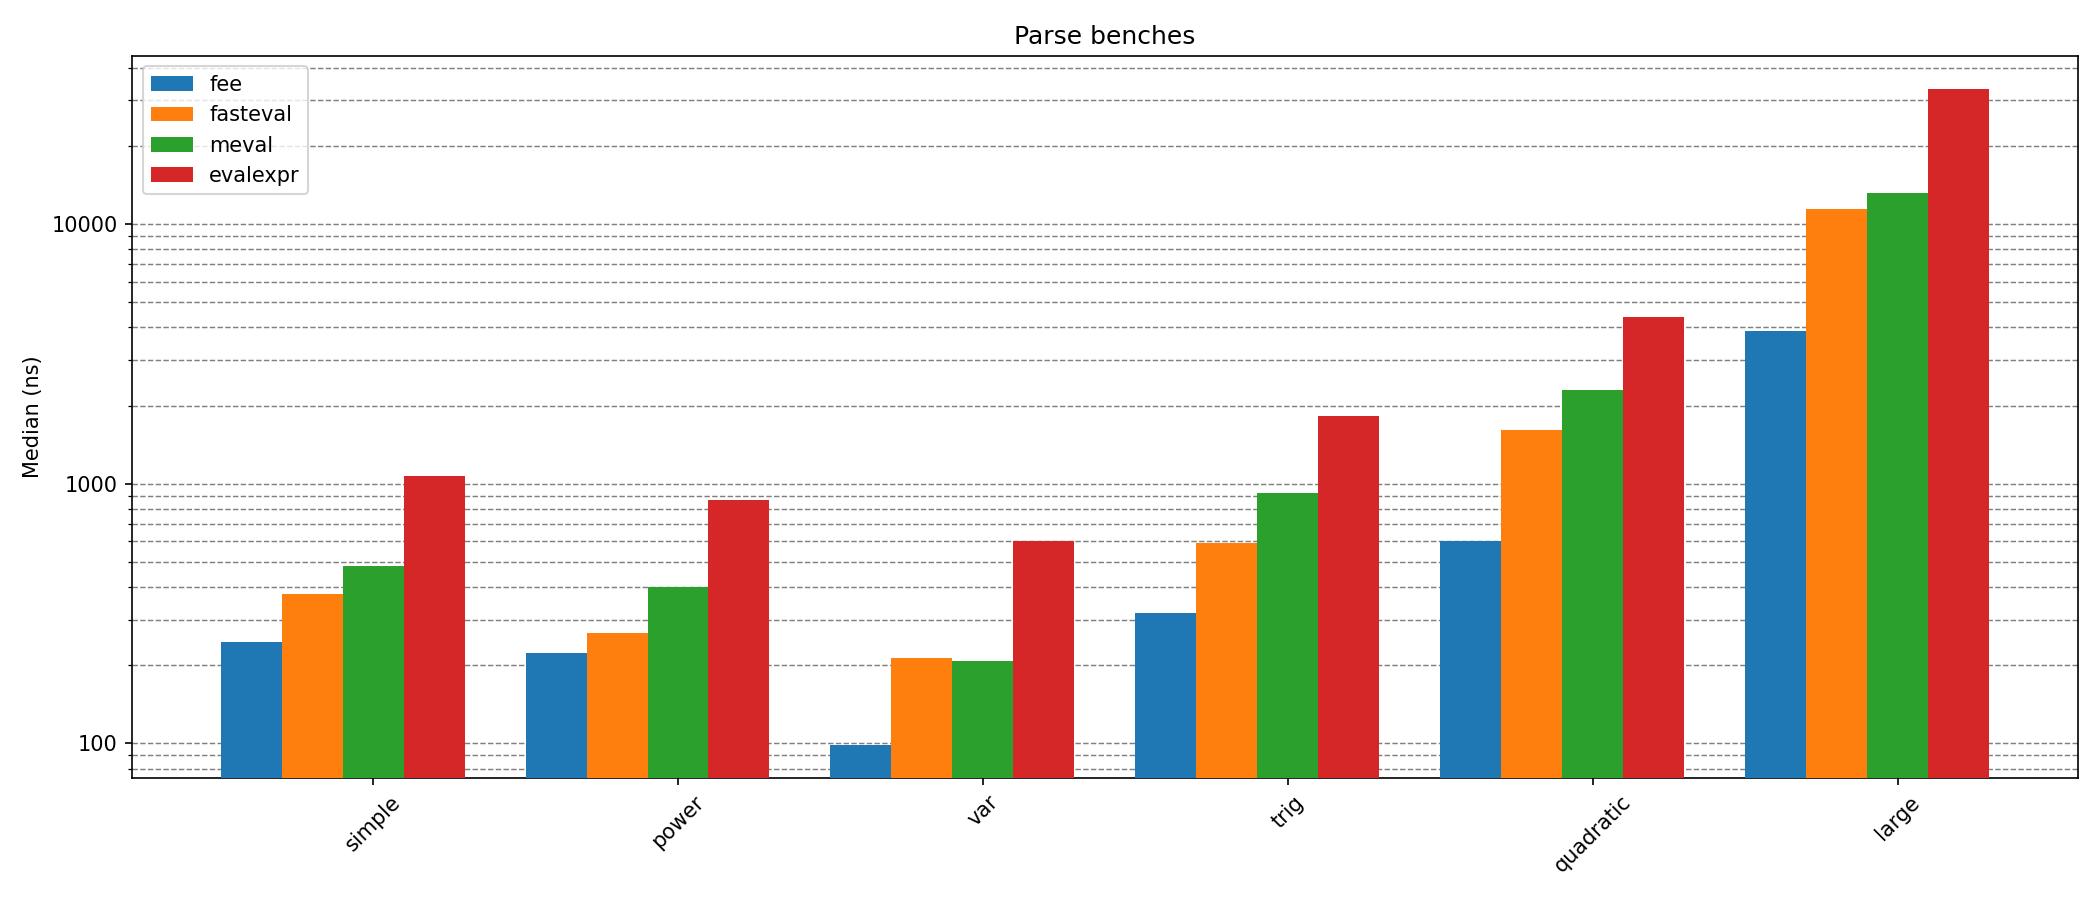
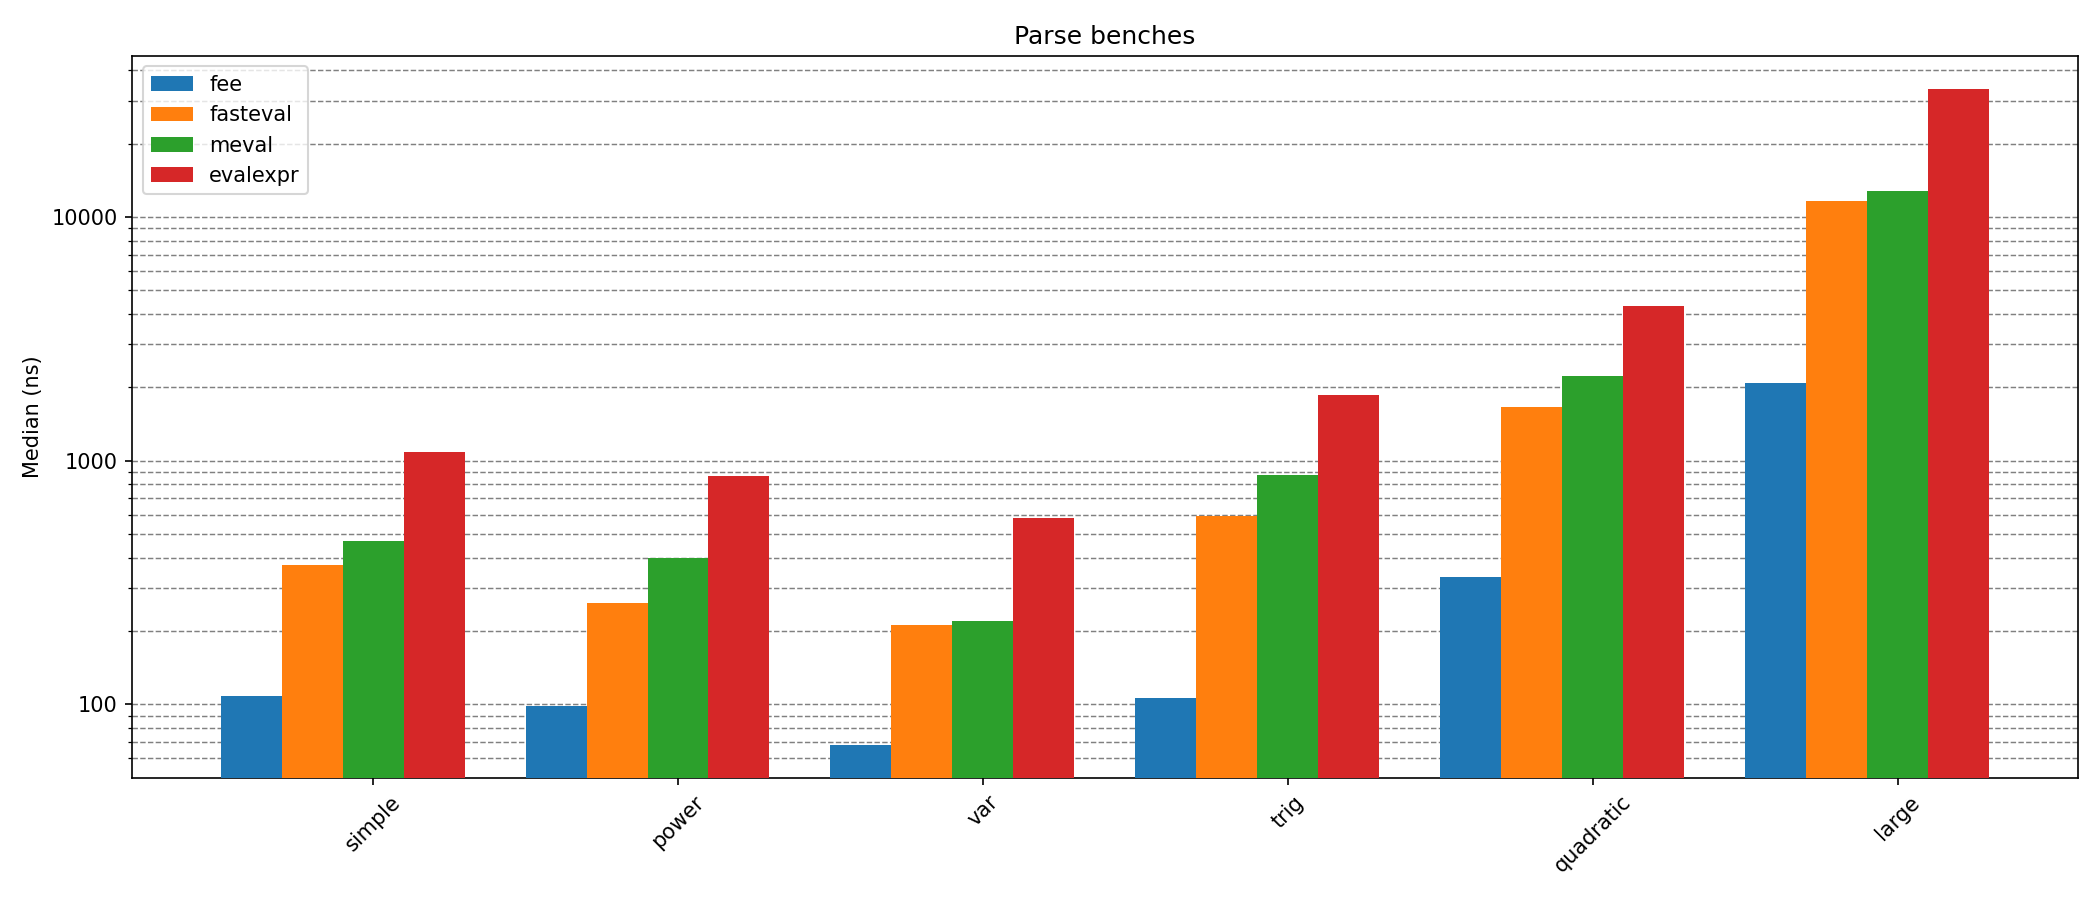
changelog and roadmap updated after compliting one milestone

diff --git a/ROADMAP.md b/ROADMAP.md
@@ -2,7 +2,7 @@
 
 ## v0.2.x optimizations and features
 - [ ] Add C bindings
-- [ ] Remove the Infix parsing overhead
+- [x] Remove the Infix parsing overhead
 - [ ] Study the performance impact of using function in the expressions
 - [ ] Study the possibility of multithreading to improve performance
 - [ ] Extend the operator support to include ~%~, logic, comparison and bitwise

diff --git a/CHANGELOG.md b/CHANGELOG.md
@@ -10,6 +10,8 @@ The format follows [Keep a Changelog](https://keepachangelog.com/en/1.0.0/).
 - Added support for the modulus operator (`%`)
 ### Changed
 - Exponentiation (`^`) now uses powi internally in integer cases.
+- Parsing into RPN no longer makes an intermediate step through infix 
+notation, improving parsing performance by 40–75%.
 
 ## [0.2.0] - 2025-09-08
 
